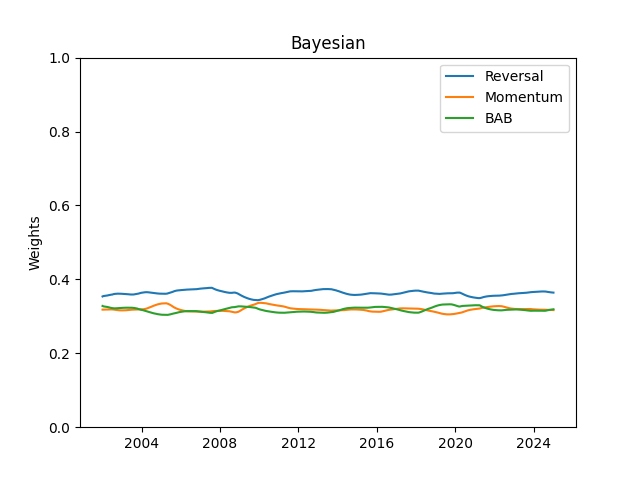
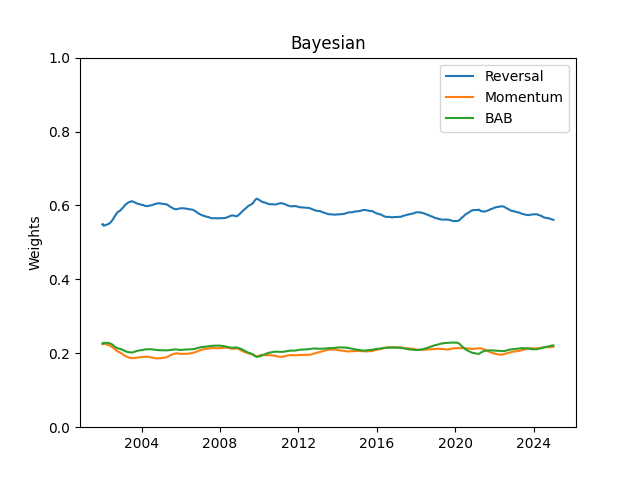
Updated bayesian approach.

diff --git a/experiments/bayesian.py b/experiments/bayesian.py
@@ -8,9 +8,8 @@ WINDOW = 252
 K = 3
 
 # Prior hyperparameters
-kappa = 1.0 / WINDOW
 mu_0 = np.ones(K) / K
-Lambda_0 = kappa * np.eye(K)
+Sigma_0 = (1.0 / WINDOW) * np.eye(K)
 
 # Load returns (quantile)
 returns_list = []
@@ -27,20 +26,22 @@ returns = (
     .sort('date')
 )
 
-# Compute signal weights using Bayesian linear regression on a rolling window
+# Compute signal weights using multivariate normal-normal conjugate prior on a rolling window
 dates = returns['date'].to_list()
-R_full = returns.select(signal_names).to_numpy()
+returns_np = returns.select(signal_names).to_numpy()
 
 rows = []
-for t in range(WINDOW, len(R_full)):
-    X = R_full[t - WINDOW : t]
-    y = X.sum(axis=1)
+for t in range(WINDOW, len(returns_np)):
+    X = returns_np[t - WINDOW : t]
+    n = X.shape[0]
+    x_bar = X.mean(axis=0)
+    Sigma = np.cov(X, rowvar=False)
 
-    # Posterior parameters (Normal-Normal conjugate update)
-    XtX = X.T @ X
-    Xty = X.T @ y
-    Lambda_n = Lambda_0 + XtX
-    mu_n = np.linalg.solve(Lambda_n, Lambda_0 @ mu_0 + Xty)
+    # Posterior parameters (multivariate normal conjugate update)
+    Sigma_0_inv = np.linalg.inv(Sigma_0)
+    Sigma_inv = np.linalg.inv(Sigma)
+    Sigma_n = np.linalg.inv(Sigma_0_inv + n * Sigma_inv)
+    mu_n = Sigma_n @ (Sigma_0_inv @ mu_0 + n * Sigma_inv @ x_bar)
 
     # Normalize
     weights = mu_n / mu_n.sum()
